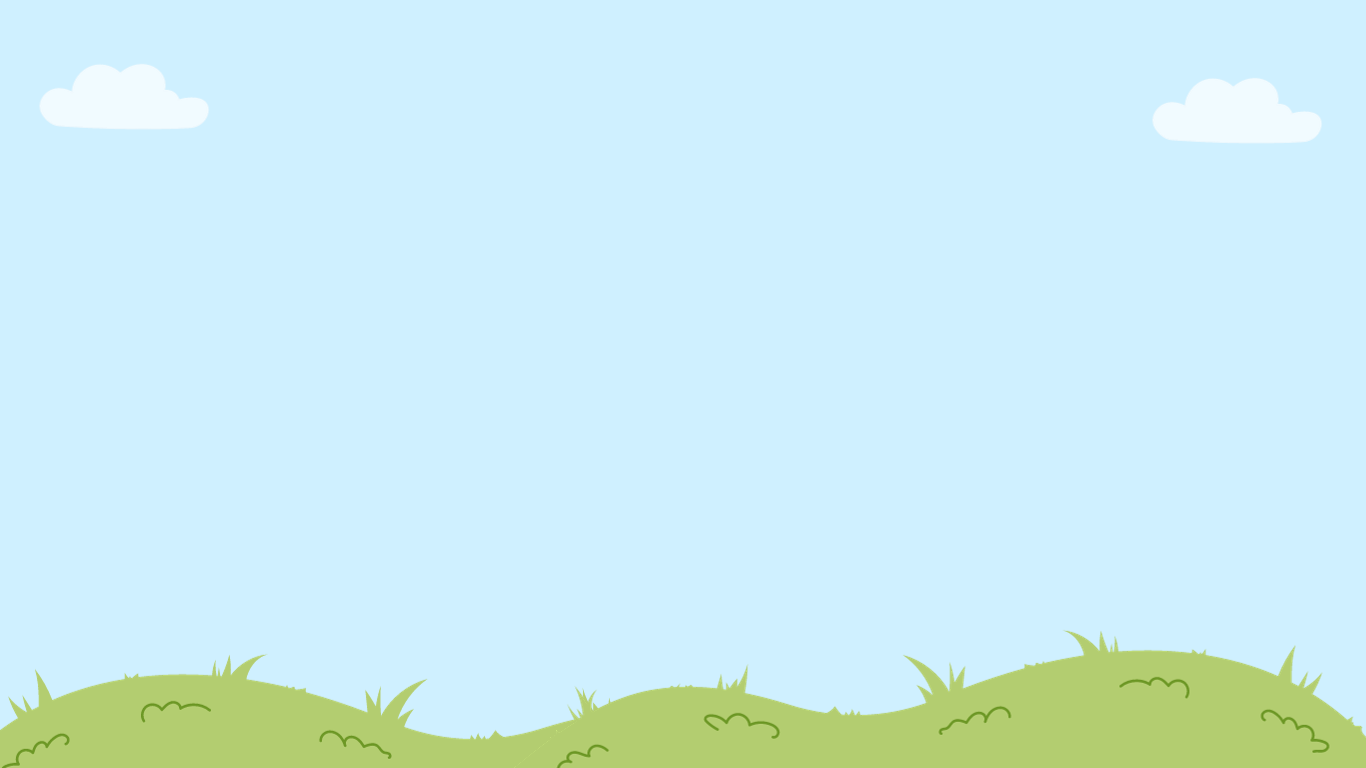
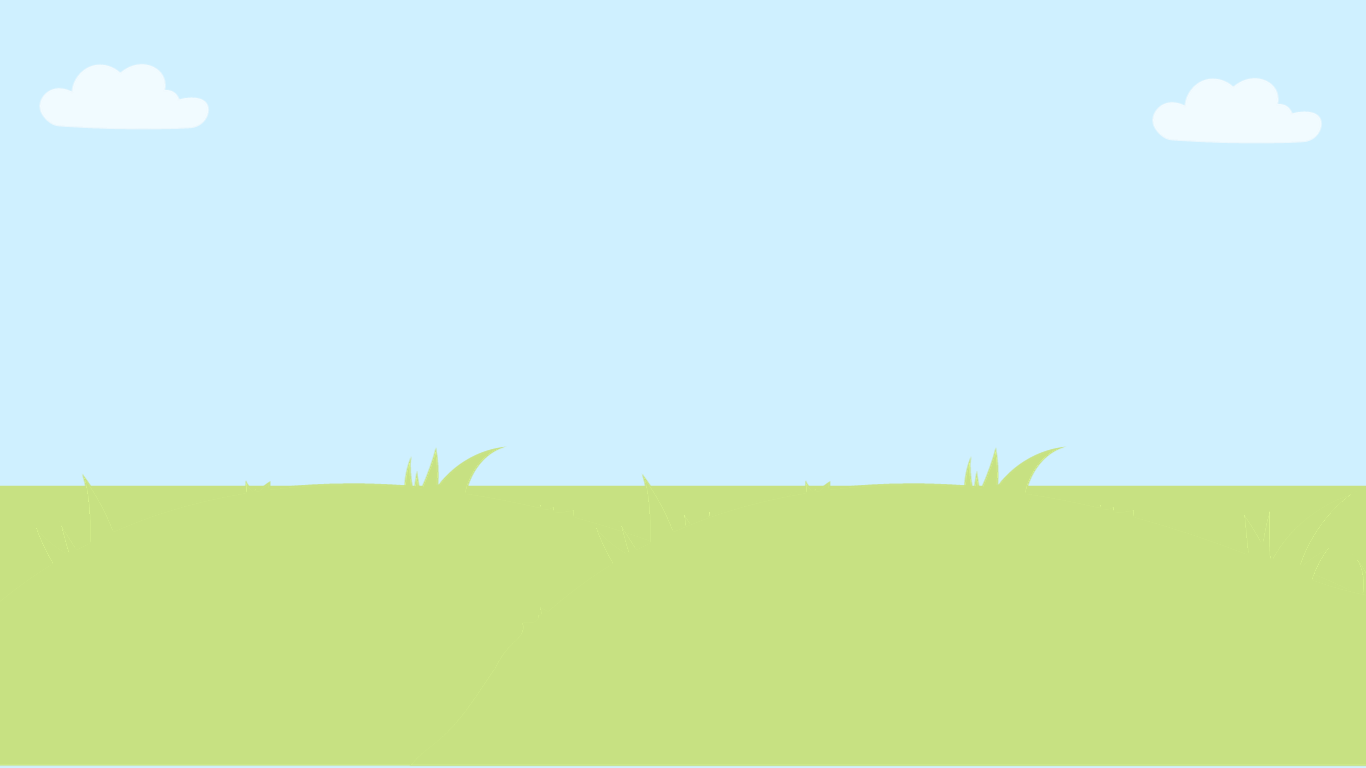
P2: Added new background image for the anxiety game and game duration. Added the Happy prompt class

Changed region(s): [[0.0, 0.5625, 1.0, 1.0]]

diff --git a/projects/project2/prototype/js/HappyPrompt.js b/projects/project2/prototype/js/HappyPrompt.js
@@ -1,0 +1,60 @@
+class HappyPrompt {
+    constructor(petCustomization) {
+        this.petCustomization = petCustomization;
+        this.backgroundImage = loadImage("assets/images/naturecloseup.png");
+        this.buttonImage = loadImage("assets/images/button.png"); // Image of the button
+        this.sentences = [
+            "I'm really glad to hear you are feeling happy!",
+            "In that case, there is not much I can do for you.",
+            "You can come back when you need my help."
+        ];
+        this.petY = height + 100; // Initial y-coordinate for the pet off-screen
+        this.petSpeed = 8; // The speed of the pet's entrance
+        this.showSentences = false; // Flag to track whether to display sentences
+        this.showPressToStart = false; // Flag to track whether to display "Press mouse to start"
+    }
+
+    display() {
+        // Display the background image
+        background(this.backgroundImage);
+
+        // Update the pet's y-coordinate to make it enter from the bottom
+        if (this.petY > height / 2 - 100) {
+            this.petY -= this.petSpeed;
+        }
+
+        // Display the chosen pet image in its current position
+        image(this.petCustomization.chosenPet, width / 2 - 650, this.petY, 600, 600);
+
+        // Display the text at the top center of the screen when the pet has reached its position
+        if (this.petY <= height / 2 - 100) {
+            this.showSentences = true;
+        }
+
+        if (this.showSentences) {
+            textSize(24);
+            textAlign(CENTER, CENTER);
+            fill(0);
+
+            for (let i = 0; i < this.sentences.length; i++) {
+                text(this.sentences[i], width / 2, 100 + i * 50);
+            }
+
+            image(this.buttonImage, width / 2 + 300, height / 2 - 125, 200, 200);
+            textSize(20);
+            text("Exit", width / 2 + 400, height / 2 - 20 );
+        }
+    }
+
+    handleMousePress() {
+        // Check if the mouse click is within the bounds of the "Exit" button
+        if (
+            mouseX > width / 2 + 200 &&
+            mouseX < width / 2 + 500 &&
+            mouseY > height / 2 + 100 &&
+            mouseY < height / 2 - 400
+        ) {
+            state = "emotions";
+        }
+    }
+}

diff --git a/projects/project2/prototype/js/script.js b/projects/project2/prototype/js/script.js
@@ -20,12 +20,12 @@ let titleBackgroundImage; //The background image for the title state
 let anxietyGame; // The class that handles the anxiety game
 let bubbleImages = []; // Array to store bubble images
 let bubbles = []; // Array to store bubble objects
-let tilesImage; //Th eimage of tiles for background of bubble game
+let tilesImage; //The image of tiles for background of bubble game
 let gameDuration; //Duration of the bubble game for anxiety
 let bubblePopSound; //Sound effect for bubble popping
 let positiveAffirmation; //The state which has the positive affirmation journal mini game
 let painting; //The state which has the painting mini game
-
+let happyPrompt; //Declaration of the class for Happy emotion
 
 /**
  * Description of preload
@@ -35,7 +35,7 @@ function preload() {
     for (let i = 0; i < 4; i++) {
         buttonImages[i] = loadImage(`assets/images/button.png`);
     }
-    buttonText = ["Anxious", "Discouraged", "Angry"];
+    buttonText = ["Anxious", "Discouraged", "Angry", "Happy"];
     //The image for the background of title state  
     titleBackgroundImage = loadImage(`assets/images/titleBackground.png`)
     // Load bubble images into the array
@@ -64,6 +64,7 @@ function setup() {
     anxietyGame = new AnxietyGame(tilesImage, bubbleImages, bubblePopSound, gameDuration.getDuration());
     positiveAffirmation = new PositiveAffirmation();
     painting = new Painting(petCustomization);
+    happyPrompt = new HappyPrompt(petCustomization);
 }
 
 /**
@@ -86,6 +87,8 @@ function draw() {
         positiveAffirmation.prompt();
     } else if (state === "painting") {
         painting.display();
+    } else if (state === "happyPrompt") {
+        happyPrompt.display();
     }
 }
 
@@ -106,8 +109,11 @@ function mousePressed() {
         positiveAffirmation.mousePressed();
     } else if (state === "painting") {
         painting.mousePressed();
+    } else if (state === "happyPrompt") {
+        hello.handleMousePress();
     }
 }
+
 function mouseReleased() {
     if (state === "positiveAffirmation") {
         positiveAffirmation.mouseReleased();

diff --git a/projects/project2/prototype/js/Emotions.js b/projects/project2/prototype/js/Emotions.js
@@ -14,8 +14,9 @@ class Emotions {
         fill(0);
         text(`Which one of these best reflects how you're feeling right now? `, width / 2 + 50, height / 2 - 220);
 
+
         // Display button images and text using arrays
-        for (let i = 0; i < 3; i++) {
+        for (let i = 0; i < 4; i++) {
             image(buttonImages[i], width / 2 + 100, height / 2 - 220 + i * 80, 270, 250);
             text(buttonText[i], width / 2 + 240, height / 2 - 90 + i * 80);
         }
@@ -31,14 +32,18 @@ class Emotions {
         } else if (this.isAngryOptionClicked()) {
             // Set the state to "painting"
             state = "painting";
+        } else if (this.isHappyOptionClicked()) {
+            // Set the state to the desired state for the "Happy" emotion
+            // For example, you can set it to a new game or state called "happyGame"
+            state = "happyPrompt";
         }
     }
 
 
     isAnxiousOptionClicked() {
         return (
-            mouseX > width / 2 + 100 &&
-            mouseX < width / 2 + 250 &&
+            mouseX > width / 2 + 50 &&
+            mouseX < width / 2 + 300 &&
             mouseY > height / 2 - 200 &&
             mouseY < height / 2 - 75
         );
@@ -46,19 +51,28 @@ class Emotions {
 
     isDiscouragedOptionClicked() {
         return (
-            mouseX > width / 2 + 100 &&
-            mouseX < width / 2 + 250 &&
+            mouseX > width / 2 + 50 &&
+            mouseX < width / 2 + 300 &&
             mouseY > height / 2 - 65 &&
             mouseY < height / 2 + 20
         );
     }
     isAngryOptionClicked() {
         return (
-            mouseX > width / 2 + 100 &&
-            mouseX < width / 2 + 250 &&
+            mouseX > width / 2 + 50 &&
+            mouseX < width / 2 + 300 &&
             mouseY > height / 2 + 70 &&
             mouseY < height / 2 + 120
         );
     }
+    isHappyOptionClicked() {
+    return (
+        mouseX > width / 2 + 50 &&
+        mouseX < width / 2 + 300 &&
+        mouseY > height / 2 + 150 &&
+        mouseY < height / 2 + 250
+    );
+}
+
 }
 

diff --git a/projects/project2/prototype/js/PetCustomization.js b/projects/project2/prototype/js/PetCustomization.js
@@ -1,6 +1,7 @@
 class PetCustomization {
     constructor() {
-        this.petImages = [];
+        this.backgroundImage = loadImage("assets/images/sky.png"); // The background image 
+        this.petImages = []; //The images of all the pets
         this.chosenPet = null;
     }
 
@@ -15,7 +16,7 @@ class PetCustomization {
     }
 
     draw() {
-        background(180, 200, 150);
+        background(this.backgroundImage); //Background image which is a sky illustration
         textSize(28);
         textAlign(CENTER, CENTER);
         fill(0);
@@ -26,6 +27,7 @@ class PetCustomization {
         this.displayPetLabels();
     }
 
+    //Display image of all the pets so teh user can choose
     displayPetImages() {
         image(this.petImages[1], 140, height / 2 - 130, 300, 300);
         image(this.petImages[2], 400, height / 2 - 140, 320, 320);
@@ -33,8 +35,8 @@ class PetCustomization {
         image(this.petImages[4], 850, height / 2 - 130, 300, 300);
     }
 
+    //Display the labels for each pet
     displayPetLabels() {
-        // Add a label for each pet image
         textSize(18);
         textAlign(CENTER, CENTER);
         fill(0);
@@ -44,6 +46,7 @@ class PetCustomization {
         text("Pet 4", 1000, height / 2 + 170);
     }
 
+    //Check which pet the user clicked on
     checkChosenPet() {
         if (mouseX > 140 && mouseX < 440 && mouseY > height / 2 - 130 && mouseY < height / 2 + 170) {
             this.chosenPet = this.petImages[1];

diff --git a/projects/project2/prototype/js/AnxietyGame.js b/projects/project2/prototype/js/AnxietyGame.js
@@ -1,6 +1,6 @@
 class AnxietyGame {
     constructor(tilesImage, bubbleImages, bubblePopSound, gameDuration) {
-        this.tilesImage = tilesImage;
+        this.backgroundImage = loadImage("assets/images/bathroom.png"); // Background image
         this.bubbleImages = bubbleImages;
         this.bubblePopSound = bubblePopSound;
         this.bubbles = [];
@@ -27,7 +27,7 @@ class AnxietyGame {
     }
 
     display() {
-        background(this.tilesImage);
+        background(this.backgroundImage);
 
         image(this.buttonImage, width / 2 + 410, height / 2 - 330, 180, 180); // The image of the exit button
 
@@ -42,8 +42,6 @@ class AnxietyGame {
             this.mousePressed();
         }
 
-        // Display the moving bubble images
-        // if (gameDuration.getDuration() !== 30) {
         // Only create new bubbles if the game duration is not 30 seconds
         for (let bubble of this.bubbles) {
             bubble.move();

diff --git a/projects/project2/prototype/index.html b/projects/project2/prototype/index.html
@@ -16,6 +16,7 @@
   <script src="js/libraries/p5.speech.js"></script>
 
   <!-- My script(s) -->
+  <script src="js/HappyPrompt.js"></script>
   <script src="js/Painting.js"></script>
   <script src="js/PositiveAffirmation.js"></script>
   <script src="js/GameDuration.js"></script>
